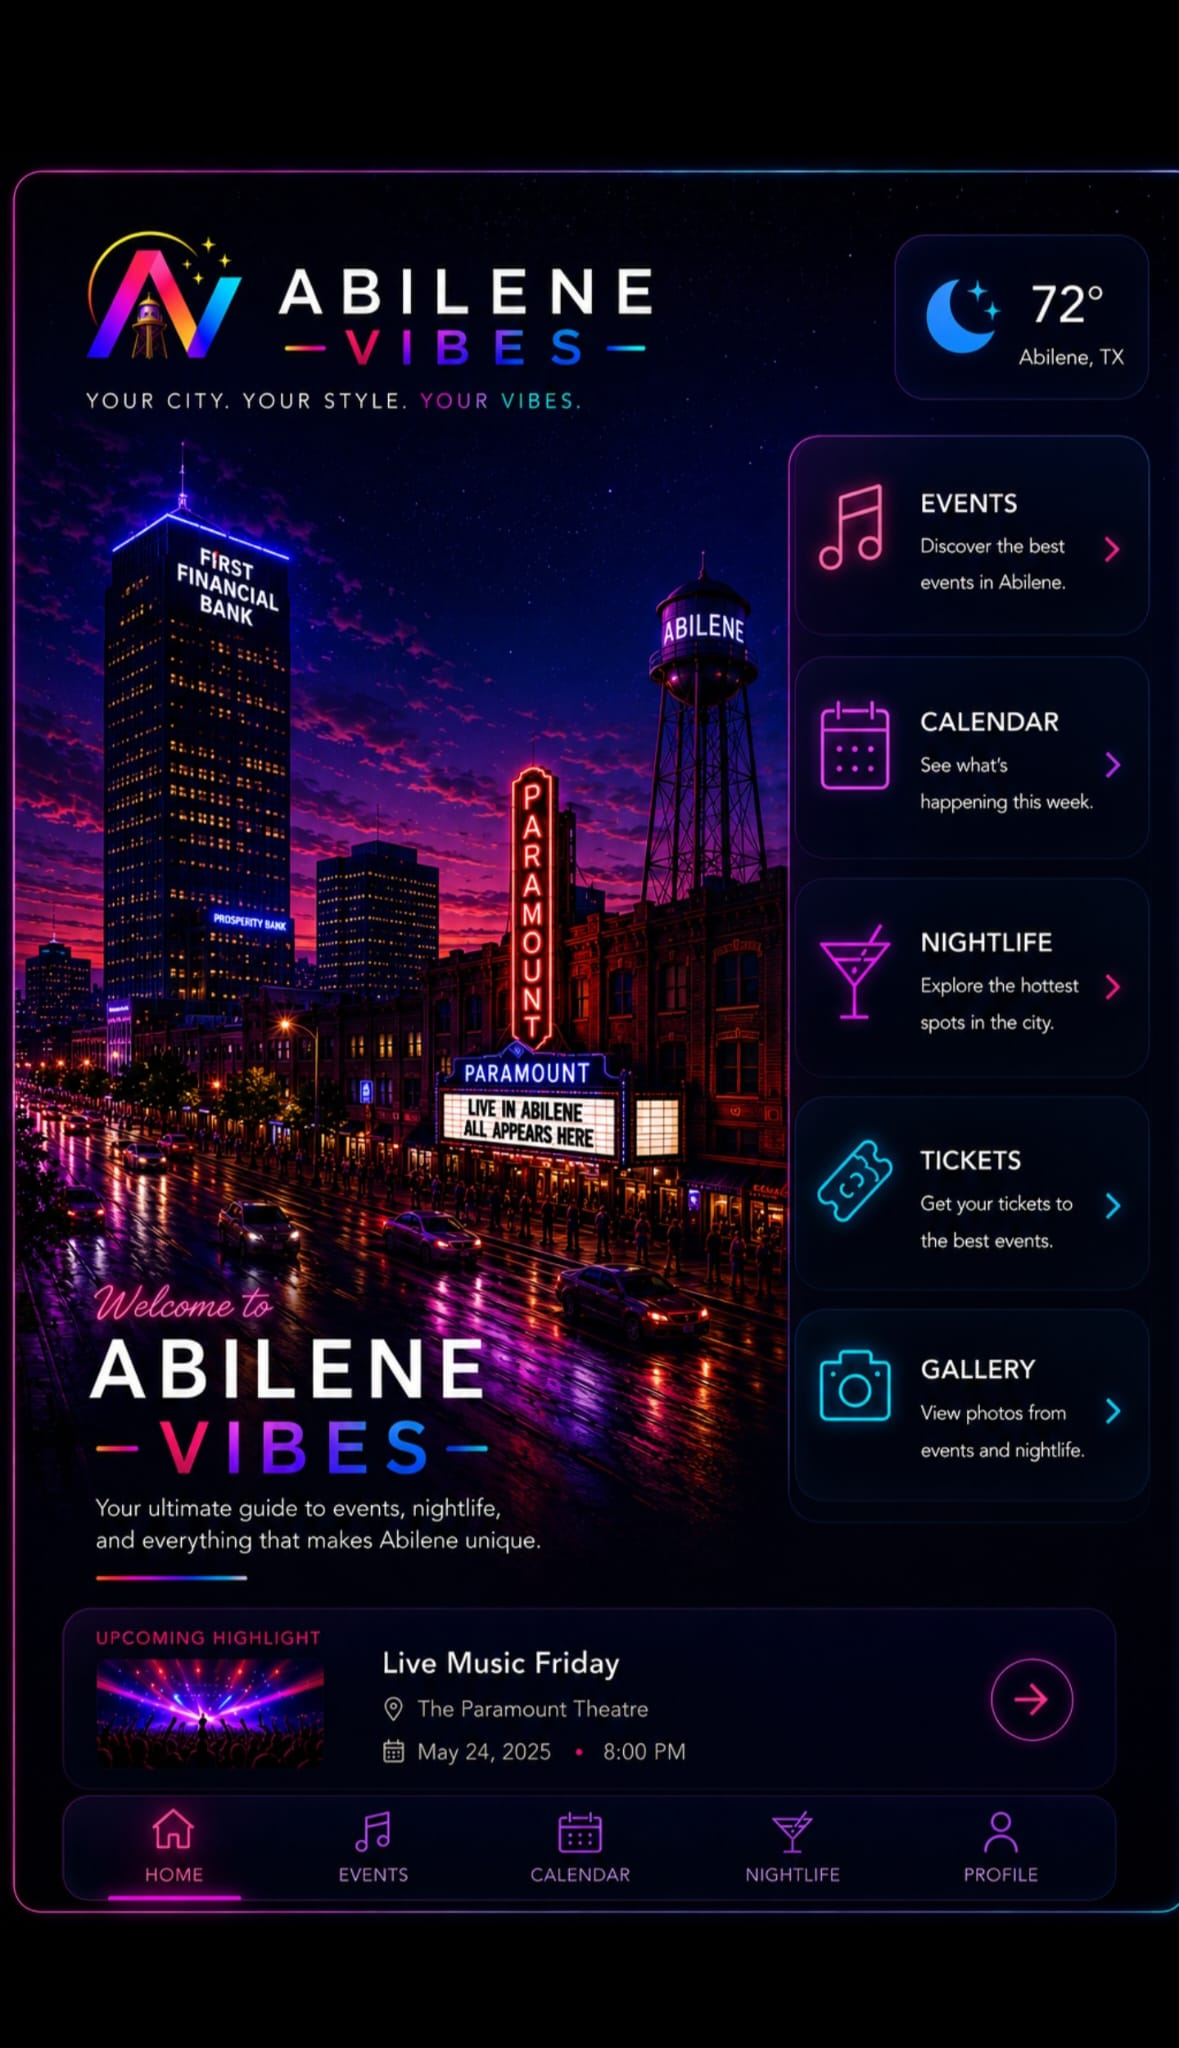
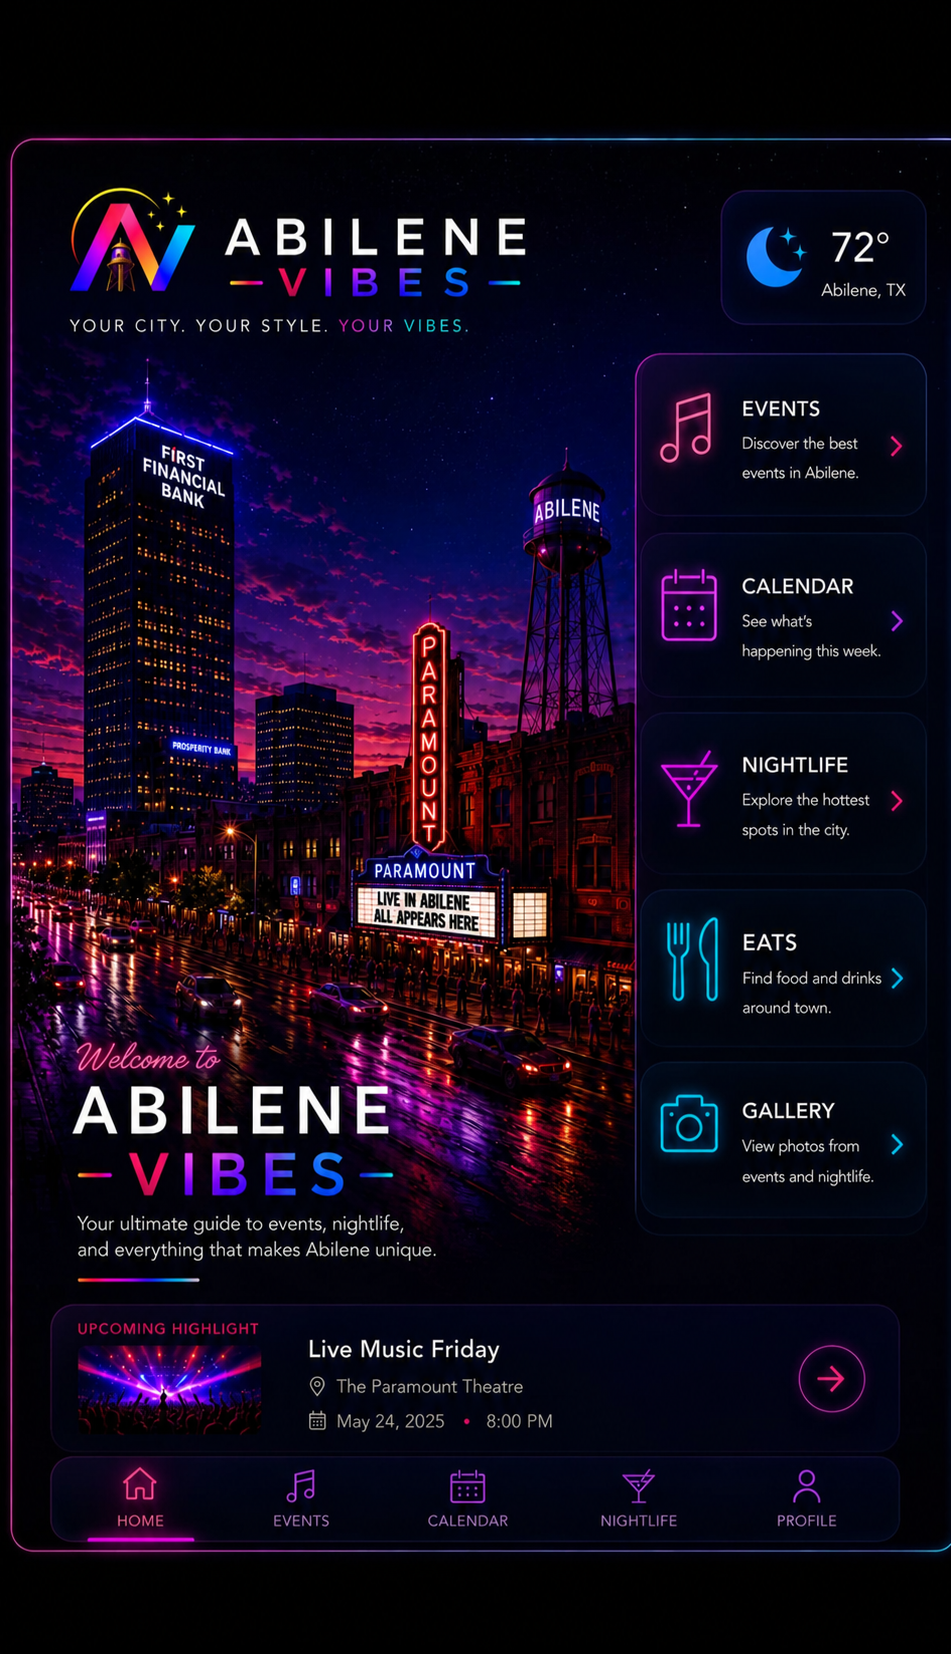
Update lobby eats option

diff --git a/src/App.css b/src/App.css
@@ -105,8 +105,8 @@
 
 .photo-feature {
   position: relative;
-  width: min(100vw, 1179px);
-  aspect-ratio: 1179 / 2048;
+  width: min(100vw, 951px);
+  aspect-ratio: 951 / 1654;
   overflow: hidden;
   background: #000;
 }
@@ -128,6 +128,7 @@
 .photo-next-button,
 .lobby-calendar-button,
 .lobby-nightlife-button,
+.lobby-eats-button,
 .lobby-gallery-button {
   position: absolute;
   right: 8.4%;
@@ -151,6 +152,10 @@
 
 .lobby-nightlife-button {
   top: 44.8%;
+}
+
+.lobby-eats-button {
+  top: 55.7%;
 }
 
 .lobby-gallery-button {

diff --git a/src/App.jsx b/src/App.jsx
@@ -65,6 +65,10 @@ function App() {
               Nightlife
             </button>
 
+            <button className="primary-button lobby-eats-button" type="button">
+              Eats
+            </button>
+
             <button className="primary-button lobby-gallery-button" type="button">
               Gallery
             </button>